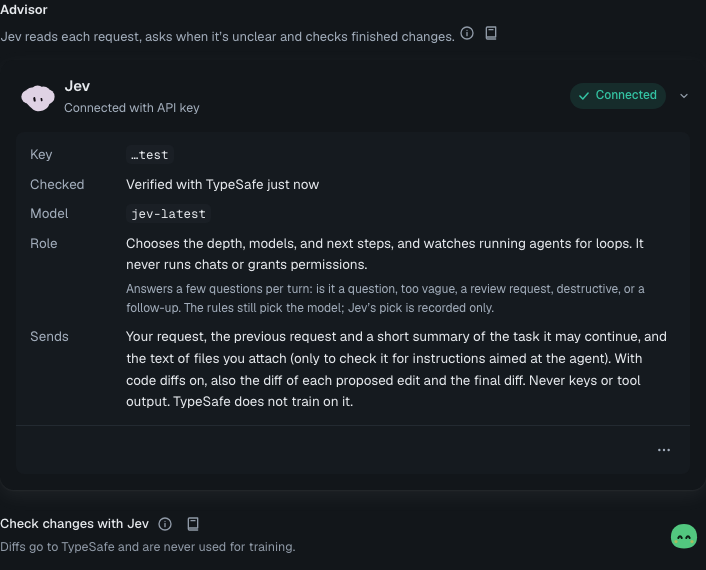
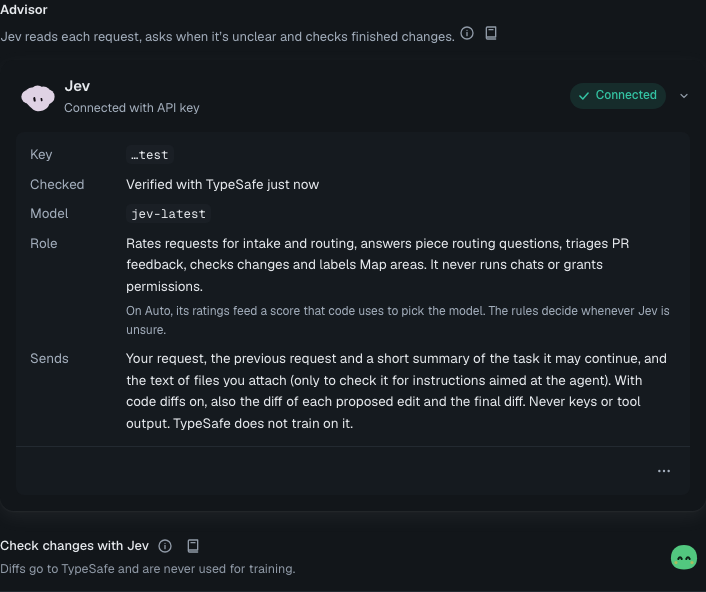
Jev card: describe what Jev does today in the Role line

diff --git a/apps/server/src/providers/catalog.ts b/apps/server/src/providers/catalog.ts
@@ -128,7 +128,7 @@ export const advisorCatalog: readonly AdvisorEntry[] = [
     keyHint:
       "Create one in the TypeSafe console under API keys. It's stored in your system keychain.",
     keyLink: { text: 'TypeSafe console', url: 'https://console.typesafe.ai/keys' },
-    role: 'Chooses the depth, models, and next steps, and watches running agents for loops. It never runs chats or grants permissions.',
+    role: 'Rates requests for intake and routing, answers piece routing questions, triages PR feedback, checks changes and labels Map areas. It never runs chats or grants permissions.',
     defaultModel: 'jev-latest',
   },
 ];

diff --git a/apps/web/src/providers/AdvisorSummary.tsx b/apps/web/src/providers/AdvisorSummary.tsx
@@ -42,9 +42,8 @@ export function AdvisorSummary({
             <Detail term="Role">
               {advisor.role}
               <small className="note">
-                Answers a few questions per turn: is it a question, too vague, a review request,
-                destructive, or a follow-up. The rules still pick the model; Jev’s pick is recorded
-                only.
+                On Auto, its ratings feed a score that code uses to pick the model. The rules decide
+                whenever Jev is unsure.
               </small>
             </Detail>
             <Detail term="Sends">{JEV_SENDS}</Detail>
